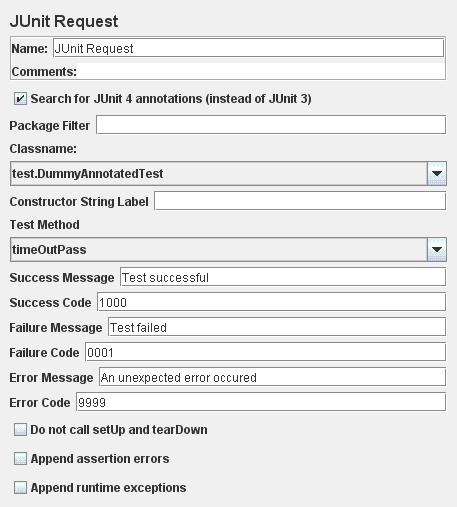
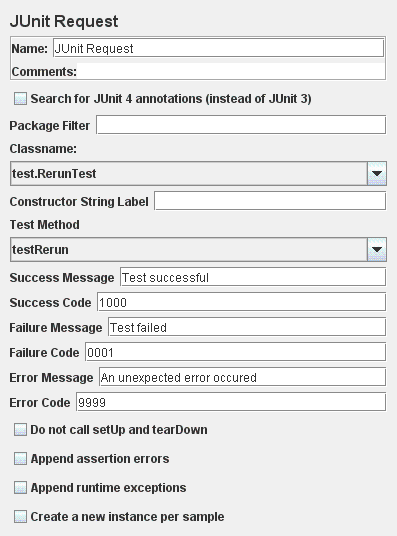
Bug 47888 - JUnit Sampler re-uses test object
git-svn-id: https://svn.apache.org/repos/asf/jakarta/jmeter/trunk@1173581 13f79535-47bb-0310-9956-ffa450edef68

Changed region(s): [[0.0, 0.0296, 0.9975, 0.9763]]

diff --git a/src/junit/org/apache/jmeter/protocol/java/sampler/JUnitSampler.java b/src/junit/org/apache/jmeter/protocol/java/sampler/JUnitSampler.java
@@ -69,6 +69,8 @@ public class JUnitSampler extends AbstractSampler implements ThreadListener {
     private static final String APPEND_ERROR = "junitsampler.append.error";
     private static final String APPEND_EXCEPTION = "junitsampler.append.exception";
     private static final String JUNIT4 = "junitsampler.junit4";
+    private static final String CREATE_INSTANCE_PER_SAMPLE="junitsampler.createinstancepersample";
+    private static final boolean CREATE_INSTANCE_PER_SAMPLE_DEFAULT = false;
     //-- JMX file attributes - do not change
 
     private static final String SETUP = "setUp";
@@ -94,6 +96,7 @@ public class JUnitSampler extends AbstractSampler implements ThreadListener {
     private transient Protectable protectable;
 
     public JUnitSampler(){
+        super();
     }
 
     /**
@@ -356,6 +359,9 @@ public class JUnitSampler extends AbstractSampler implements ThreadListener {
 
     /** {@inheritDoc} */
     public SampleResult sample(Entry entry) {
+        if(getCreateOneInstancePerSample()) {
+            initializeTestObject();
+        }
         SampleResult sresult = new SampleResult();
         sresult.setSampleLabel(getName());// Bug 41522 - don't use rlabel here
         sresult.setSamplerData(className + "." + methodName);
@@ -621,16 +627,26 @@ public class JUnitSampler extends AbstractSampler implements ThreadListener {
         testCase = null;
         methodName = getMethod();
         className = getClassname();
-        final Method m;
         protectable = null;
+        if(!getCreateOneInstancePerSample()) {
+            // NO NEED TO INITIALIZE WHEN getCreateOneInstancePerSample 
+            // is true cause it will be done in sample
+            initializeTestObject();            
+        }
+    }
+
+    /**
+     * Initialize test object
+     */
+    private void initializeTestObject() {
         String rlabel = getConstructorString();
         if (rlabel.length()== 0) {
             rlabel = JUnitSampler.class.getName();
         }
-        this.testObject = getClassInstance(className,rlabel);
+        this.testObject = getClassInstance(className, rlabel);
         if (this.testObject != null){
             initMethodObjects(this.testObject);
-            m = getMethod(this.testObject,methodName);
+            final Method m = getMethod(this.testObject,methodName);
             if (getJunit4()){
                 Class<? extends Throwable> expectedException = None.class;
                 long timeout = 0;
@@ -672,5 +688,21 @@ public class JUnitSampler extends AbstractSampler implements ThreadListener {
                 this.testCase.setName(methodName);
             }
         }
+    }
+
+    /**
+     * 
+     * @param createOneInstancePerSample
+     */
+    public void setCreateOneInstancePerSample(boolean createOneInstancePerSample) {
+        this.setProperty(CREATE_INSTANCE_PER_SAMPLE, createOneInstancePerSample, CREATE_INSTANCE_PER_SAMPLE_DEFAULT);
+    }
+
+    /**
+     * 
+     * @return boolean create New Instance For Each Call
+     */
+    public boolean getCreateOneInstancePerSample() {
+        return getPropertyAsBoolean(CREATE_INSTANCE_PER_SAMPLE, CREATE_INSTANCE_PER_SAMPLE_DEFAULT);
     }
 }

diff --git a/src/junit/org/apache/jmeter/protocol/java/control/gui/JUnitTestSamplerGui.java b/src/junit/org/apache/jmeter/protocol/java/control/gui/JUnitTestSamplerGui.java
@@ -131,6 +131,7 @@ implements ChangeListener, ActionListener, ItemListener
     private JCheckBox appendError = new JCheckBox(JMeterUtils.getResString("junit_append_error")); //$NON-NLS-1$
     private JCheckBox appendExc = new JCheckBox(JMeterUtils.getResString("junit_append_exception")); //$NON-NLS-1$
     private JCheckBox junit4 = new JCheckBox(JMeterUtils.getResString("junit_junit4")); //$NON-NLS-1$
+    private JCheckBox createInstancePerSample = new JCheckBox(JMeterUtils.getResString("junit_create_instance_per_sample")); //$NON-NLS-1$
 
     /** A combo box allowing the user to choose a test class. */
     private JComboBox classnameCombo;
@@ -234,12 +235,14 @@ implements ChangeListener, ActionListener, ItemListener
         panel.add(doSetup);
         panel.add(appendError);
         panel.add(appendExc);
+        panel.add(createInstancePerSample);
         return panel;
     }
 
     private void initGui(){
         appendError.setSelected(false);
         appendExc.setSelected(false);
+        createInstancePerSample.setSelected(false);
         doSetup.setSelected(false);
         junit4.setSelected(false);
         filterpkg.setText(""); //$NON-NLS-1$
@@ -295,6 +298,7 @@ implements ChangeListener, ActionListener, ItemListener
         sampler.setDoNotSetUpTearDown(doSetup.isSelected());
         sampler.setAppendError(appendError.isSelected());
         sampler.setAppendException(appendExc.isSelected());
+        sampler.setCreateOneInstancePerSample(createInstancePerSample.isSelected());
         sampler.setJunit4(junit4.isSelected());
     }
 
@@ -343,6 +347,7 @@ implements ChangeListener, ActionListener, ItemListener
         doSetup.setSelected(sampler.getDoNotSetUpTearDown());
         appendError.setSelected(sampler.getAppendError());
         appendExc.setSelected(sampler.getAppendException());
+        createInstancePerSample.setSelected(sampler.getCreateOneInstancePerSample());
     }
 
     private void setupMethods(){
